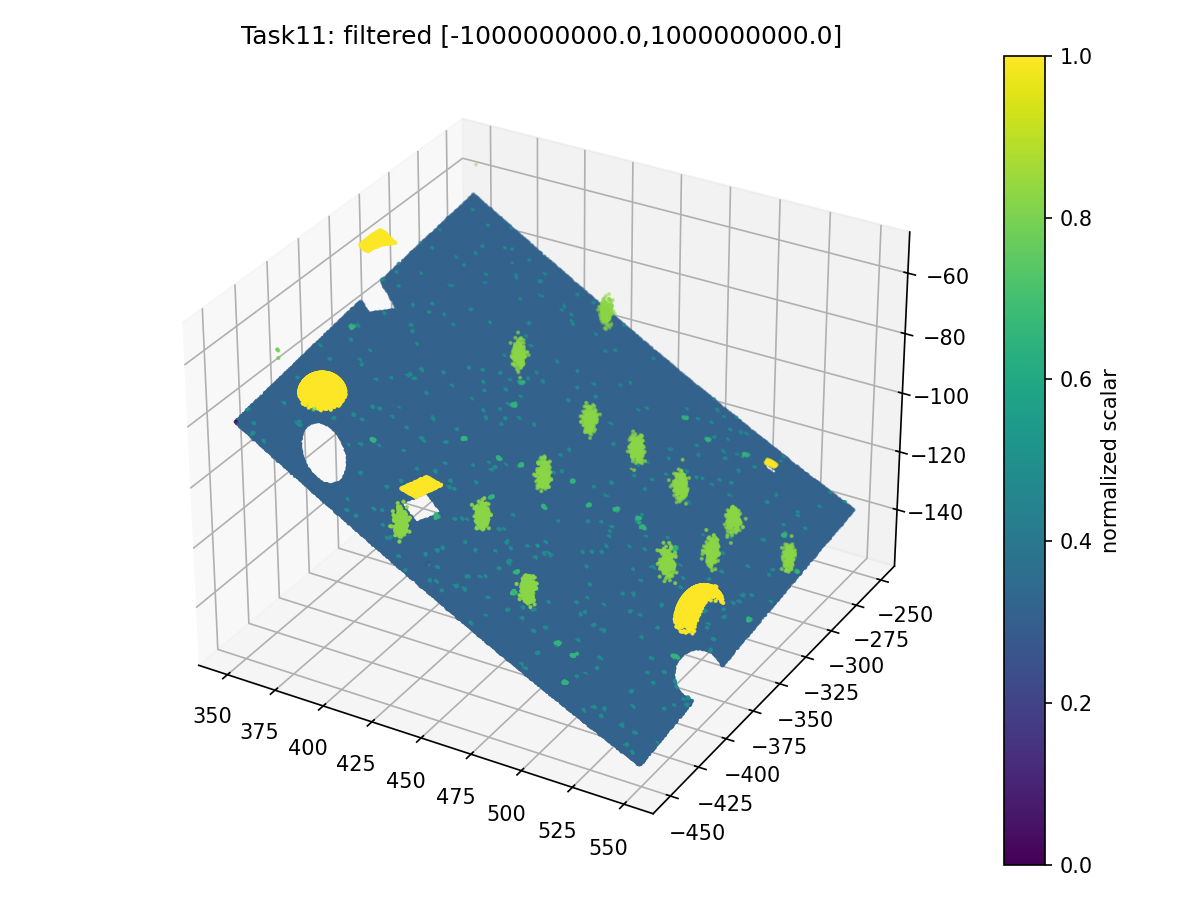
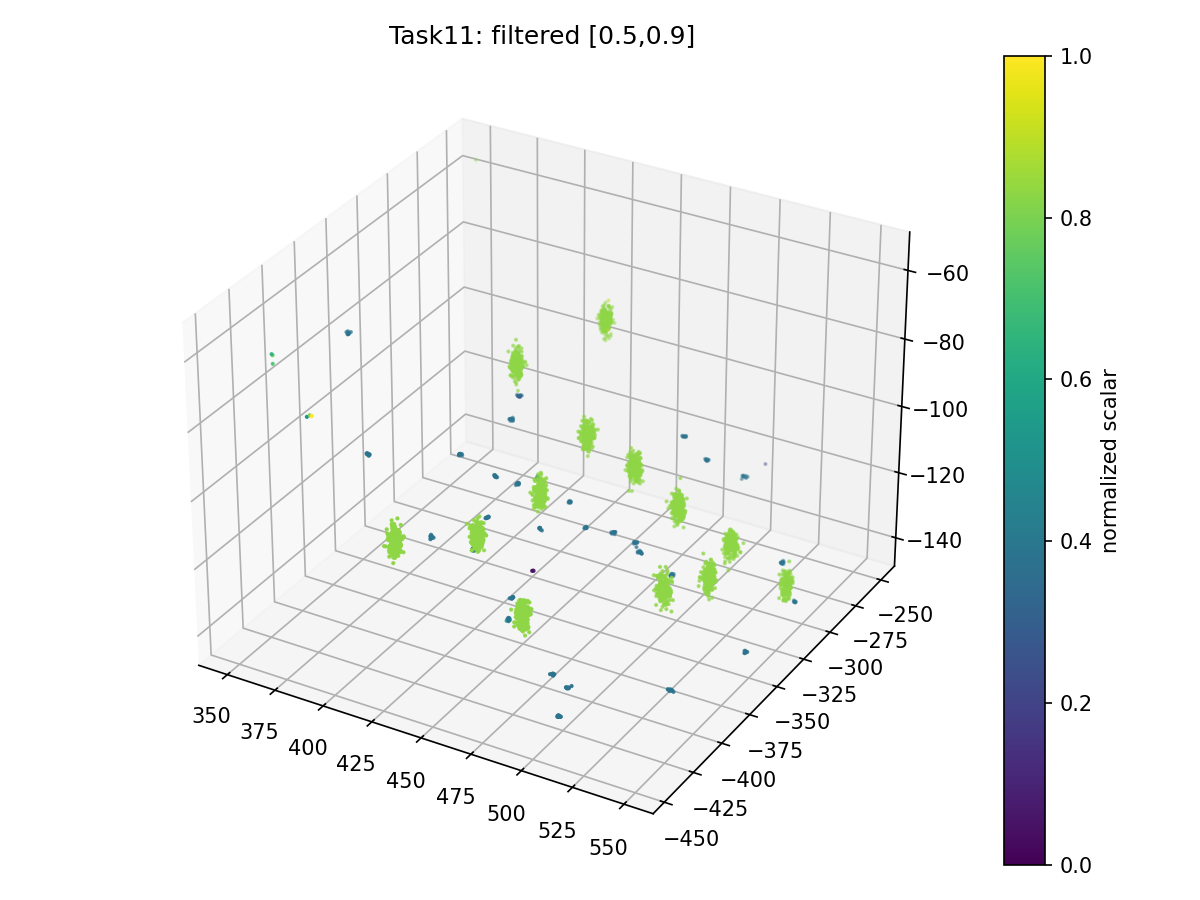
l2/t3, l2/t4 reports added

diff --git a/src/lesson2/task4/README.md b/src/lesson2/task4/README.md
@@ -1,0 +1,172 @@
+# Отчёт к заданию 4
+
+## Результаты
+
+### Добавить скалярное поле с постоянным значением 10
+
+<div style="display:flex; gap:8px; align-items:center;">
+  <img src="outputs/scalar_task1_constant.png" style="width:50%; max-width:600px;">
+</div>
+
+### Умножить скалярное поле на число
+
+<div style="display:flex; gap:8px; align-items:center;">
+  <img src="outputs/scalar_task2_multiplied.png" style="width:50%; max-width:600px;">
+</div>
+
+### Добавить число к значениям скалярного поля
+
+<div style="display:flex; gap:8px; align-items:center;">
+  <img src="outputs/scalar_task3_added.png" style="width:50%; max-width:600px;">
+</div>
+
+### Применить гауссов фильтр (сглаживание)
+
+<div style="display:flex; gap:8px; align-items:center;">
+  <img src="outputs/scalar_task4_gaussian.png" style="width:50%; max-width:600px;">
+</div>
+
+### Повторное сглаживание (скользящее среднее)
+
+<div style="display:flex; gap:8px; align-items:center;">
+  <img src="outputs/scalar_task6_moving_avg.png" style="width:50%; max-width:600px;">
+</div>
+
+### Преобразовать скалярное поле в RGB цвета
+
+<div style="display:flex; gap:8px; align-items:center;">
+  <img src="outputs/task7_colored_scatter.png" style="width:50%; max-width:600px;">
+</div>
+
+### Вычислить статистические параметры
+
+<div style="display:flex; gap:8px; align-items:center;">
+  <img src="outputs/task8_stats_table.png" style="width:50%; max-width:600px;">
+</div>
+
+### Нормализовать значения в диапазон [0, 1]
+
+<div style="display:flex; gap:8px; align-items:center;">
+  <img src="outputs/scalar_task9_normalized.png" style="width:50%; max-width:600px;">
+</div>
+
+### Интерполировать скалярное поле (заполнение пропусков)
+
+<div style="display:flex; gap:8px; align-items:center;">
+  <img src="outputs/scalar_task10_interpolated.png" style="width:50%; max-width:600px;">
+</div>
+
+### Фильтрация по значению скалярного поля
+
+<div style="display:flex; gap:8px; align-items:center;">
+  <img src="outputs/task11_filtered_scatter.png" style="width:50%; max-width:600px;">
+</div>
+
+### Использовать скалярное поле как координату
+
+<div style="display:flex; gap:8px; align-items:center;">
+  <img src="outputs/task12_scalar_as_coord.png" style="width:50%; max-width:600px;">
+</div>
+
+## Ответы на вопросы
+
+### 1. Что такое облако точек? Какие данные оно обычно содержит?
+
+Облако точек — это набор точек в трёхмерном пространстве, обычно содержащий координаты X, Y, Z, а также дополнительные атрибуты: цвет (RGB), интенсивность отражения, нормали и другие скалярные поля.
+
+### 2. Что такое скалярное поле в контексте облака точек?
+
+Скалярное поле — это числовое значение, привязанное к каждой точке облака. Оно представляет собой одномерную величину (температура, высота, интенсивность и т.д.), в отличие от векторных полей.
+
+### 3. Как можно связать скалярное поле с точками?
+
+Скалярное поле связывается с точками через массив той же длины, что и количество точек, где каждый элемент массива соответствует значению поля для конкретной точки с тем же индексом.
+
+### 4. Приведите примеры реальных скалярных полей (например, в данных LIDAR или фотограмметрии)
+
+Примеры: интенсивность отражения лазера (LIDAR), высота над уровнем моря, температура поверхности, индекс растительности (NDVI), количество возвратов сигнала, угол наклона поверхности, текстурные характеристики.
+
+### 5. Как с помощью NumPy создать массив скалярных значений для точек?
+
+Используя функции: `np.full(n, value)` для постоянного значения, `np.zeros(n)`, `np.ones(n)`, `np.random.rand(n)` для случайных значений, или `np.array([...])` для конкретных значений.
+
+### 6. Как добавить к каждому значению скалярного поля постоянную величину?
+
+Операцией сложения: `scalar_field = scalar_field + constant` или `scalar_field += constant`.
+
+### 7. Как умножить все значения скалярного поля на коэффициент?
+
+Операцией умножения: `scalar_field = scalar_field * coefficient` или `scalar_field *= coefficient`.
+
+### 8. Что произойдёт с данными при нормализации скалярного поля в диапазон [0, 1]?
+
+Минимальное значение станет 0, максимальное — 1, остальные значения линейно масштабируются между ними. Относительные расстояния между значениями сохраняются, но абсолютные величины изменяются.
+
+### 9. Какие статистические параметры можно вычислить для скалярного поля?
+
+Среднее (`mean`), стандартное отклонение (`std`), дисперсия (`var`), минимум (`min`), максимум (`max`), медиана (`median`), квартили, размах, коэффициент вариации.
+
+### 10. Как интерпретировать значения: минимум, максимум, среднее, дисперсия?
+
+Минимум/максимум — границы диапазона значений; среднее — центральная тенденция данных; дисперсия (и std) — мера разброса значений относительно среднего (чем больше, тем неоднороднее поле).
+
+### 11. Для чего используется гауссов фильтр при обработке скалярных полей?
+
+Для сглаживания данных и удаления шума. Гауссов фильтр взвешивает соседние значения по колоколообразной кривой, сохраняя общую форму сигнала лучше, чем простое усреднение.
+
+### 12. Чем отличается гауссов фильтр от скользящего среднего?
+
+Гауссов фильтр применяет взвешенное усреднение с весами по нормальному распределению (больший вес ближним точкам), а скользящее среднее использует равные веса для всех точек в окне.
+
+### 13. Как можно визуализировать скалярное поле, используя цветовую карту?
+
+Нормализовать значения в [0, 1], применить цветовую карту (например, `plt.cm.viridis`, `jet`, `coolwarm`), получить RGB значения и назначить их как цвета точкам.
+
+### 14. Зачем может понадобиться использовать скалярное поле в качестве координаты (например, заменив Z)?
+
+Для визуализации рельефа по скалярному значению, создания профилей высот, анализа зависимостей или представления 4D данных в 3D пространстве.
+
+### 15. Что произойдёт с визуализацией, если применить некорректную нормализацию?
+
+Возможны артефакты: все точки одного цвета (при делении на ноль), обрезка значений, инверсия цветовой схемы, потеря контраста или выход за пределы допустимого диапазона цветов.
+
+### 16. Как можно обнаружить пропущенные значения в скалярном поле?
+
+Использовать `np.isnan(scalar_field)` для поиска NaN значений, `np.isinf()` для бесконечностей, или проверять на специальные маркеры пропусков (например, -9999).
+
+### 17. Что такое интерполяция и как она может быть реализована в NumPy/Scipy?
+
+Интерполяция — восстановление пропущенных значений на основе известных. Реализуется через `scipy.interpolate.interp1d`, `griddata`, `LinearNDInterpolator` или заполнение методами `fillna` с различными стратегиями.
+
+### 18. Как отфильтровать точки по условию, заданному на значения скалярного поля?
+
+Создать булеву маску условием: `mask = (scalar_field >= min_val) & (scalar_field <= max_val)`, затем применить к массивам: `filtered_points = xyz[mask]`.
+
+### 19. Какие библиотеки Python можно использовать для: визуализации 3D-облаков точек (назовите 1–2), сглаживания/фильтрации данных, работы с цветом?
+
+Визуализация 3D: Open3D, Matplotlib (mplot3d), PyVista, Plotly. Фильтрация: SciPy, NumPy, scikit-image. Работа с цветом: Matplotlib (colormaps), seaborn, PIL/Pillow.
+
+### 20. Опишите пошагово, как бы вы добавили скалярное поле к облаку точек и окрасили его по этому полю
+
+1) Загрузить координаты точек
+2) Создать/вычислить скалярное поле
+3) Нормализовать значения в [0,1]
+4) Применить цветовую карту для получения RGB
+5) Назначить цвета точкам
+6) Визуализировать
+
+### 21. Почему важно сглаживать скалярные поля перед анализом?
+
+Сглаживание удаляет шум и случайные флуктуации, выявляет истинные тренды, улучшает стабильность вычислений производных и градиентов, снижает влияние выбросов на результаты анализа.
+
+### 22. Что будет, если применить гауссов фильтр с очень большим значением σ?
+
+Произойдёт сильное размытие: мелкие детали исчезнут, поле станет почти однородным, приближаясь к среднему значению. Локальные особенности будут потеряны.
+
+### 23. Как можно визуально определить наличие шума в скалярном поле?
+
+По резким, хаотичным колебаниям значений между соседними точками, отсутствию плавных переходов, наличию выбросов, высокочастотным осцилляциям на графиках или "пятнистости" в цветовой визуализации.
+
+### 24. Можно ли применить скалярное поле как Z-координату, если оно содержит пропуски (NaN)? Почему?
+
+Технически можно, но это создаст проблемы: точки с NaN не будут корректно отображаться, могут возникнуть ошибки в алгоритмах визуализации, нарушится целостность поверхности. Лучше сначала интерполировать или удалить такие точки.

diff --git a/src/lesson2/task3/README.md b/src/lesson2/task3/README.md
@@ -1,0 +1,110 @@
+# Отчёт к заданию 3
+
+## Результаты
+
+### Добавление и изменение скалярного поля
+
+#### Создание скалярного поля с константой 10
+
+<div style="display:flex; gap:8px; align-items:center;">
+  <img src="constSF10_1.png" style="width:33%; max-width:400px;">
+  <img src="constSF10_2.png" style="width:33%; max-width:400px;">
+</div>
+
+#### Умножение на 2
+
+<div style="display:flex; gap:8px; align-items:center;">
+  <img src="constSF20_1.png" style="width:33%; max-width:400px;">
+  <img src="constSF20_2.png" style="width:33%; max-width:400px;">
+</div>
+
+#### Добавление константы 5
+
+<div style="display:flex; gap:8px; align-items:center;">
+  <img src="constSF25_1.png" style="width:33%; max-width:400px;">
+  <img src="constSF25_2.png" style="width:33%; max-width:400px;">
+</div>
+
+### Сглаживание и фильтрация
+
+#### Фильтр Гаусса std=2
+
+<div style="display:flex; gap:8px; align-items:center;">
+  <img src="SFgauss2_1.png" style="width:33%; max-width:400px;">
+  <img src="SFgauss2_2.png" style="width:33%; max-width:400px;">
+</div>
+
+#### Фильтр Гаусса std=5
+
+<div style="display:flex; gap:8px; align-items:center;">
+  <img src="SFgauss5_1.png" style="width:33%; max-width:400px;">
+  <img src="SFgauss5_2.png" style="width:33%; max-width:400px;">
+</div>
+
+#### Фильтрация по значению [10; 11]
+
+<div style="display:flex; gap:8px; align-items:center;">
+  <img src="SFfilter10to11.png" style="width:33%; max-width:400px;">
+</div>
+
+### Анализ и нормализация
+
+#### Статистические параметры
+
+<div style="display:flex; gap:8px; align-items:center;">
+  <img src="SFstats.png" style="width:33%; max-width:400px;">
+</div>
+
+#### Замена координаты на скалярное поле
+
+<div style="display:flex; gap:8px; align-items:center;">
+  <img src="SFasZ_1.png" style="width:33%; max-width:400px;">
+  <img src="SFasZ_2.png" style="width:33%; max-width:400px;">
+</div>
+
+### Интерполяция и градиент
+
+#### Градиент
+
+<div style="display:flex; gap:8px; align-items:center;">
+  <img src="SFgrad_1.png" style="width:33%; max-width:400px;">
+  <img src="SFgrad_2.png" style="width:33%; max-width:400px;">
+</div>
+
+## Ответы на вопросы
+
+### Какая команда используется для создания скалярного поля с постоянным значением?
+Команда **Add constant SF** (Edit → Scalar Fields → Add constant SF) позволяет создать новое скалярное поле, где всем точкам облака присваивается одно и то же заданное значение.
+
+### Для чего применяется команда Multiply SF?
+Команда **Multiply SF** используется для умножения всех значений активного скалярного поля на заданный коэффициент, что позволяет масштабировать данные.
+
+### Что делает команда Gaussian filter SF и какие параметры она использует?
+**Gaussian filter SF** применяет гауссово сглаживание к скалярному полю. Основной параметр — радиус фильтра, который определяет область усреднения значений для каждой точки.
+
+### Чем отличается Smooth SF от Gaussian filter SF?
+**Smooth SF** выполняет более простое усреднение значений соседних точек, в то время как **Gaussian filter SF** использует взвешенное усреднение с гауссовым распределением весов, что даёт более плавный результат.
+
+### Для чего нужна команда Filter by value?
+**Filter by value** позволяет отфильтровать точки облака по диапазону значений скалярного поля, оставляя только те точки, значения которых попадают в заданный интервал.
+
+### Что показывает команда Compute stat. parameters?
+**Compute stat. parameters** вычисляет и отображает статистические характеристики скалярного поля: минимум, максимум, среднее значение, стандартное отклонение, дисперсию и другие параметры.
+
+### Зачем нормализовать скалярное поле (Normalize SF)?
+Нормализация приводит все значения скалярного поля к единому диапазону [0..1], что упрощает сравнение разных полей, визуализацию и применение некоторых алгоритмов обработки.
+
+### Что делает команда Set SF as coordinate?
+**Set SF as coordinate** заменяет одну из пространственных координат (X, Y или Z) значениями из активного скалярного поля, что может использоваться для создания рельефа или деформации облака.
+
+### Для чего используется команда Interpolate SF?
+**Interpolate SF** заполняет пропущенные или нулевые значения в скалярном поле путём интерполяции на основе значений соседних точек.
+
+### Что вычисляет команда Gradient?
+**Gradient** рассчитывает пространственный градиент скалярного поля — скорость изменения значений в пространстве, что полезно для анализа перепадов и выявления границ.
+
+### Зачем нужна команда Convert to RGB?
+**Convert to RGB** преобразует значения скалярного поля в цветовую карту RGB, что позволяет визуализировать распределение значений непосредственно на облаке точек в виде цветового градиента.
+
+### Когда следует использовать Delete current SF?
+**Delete current SF** удаляет текущее активное скалярное поле, когда оно больше не требуется или для освобождения памяти при работе с большими облаками точек.
